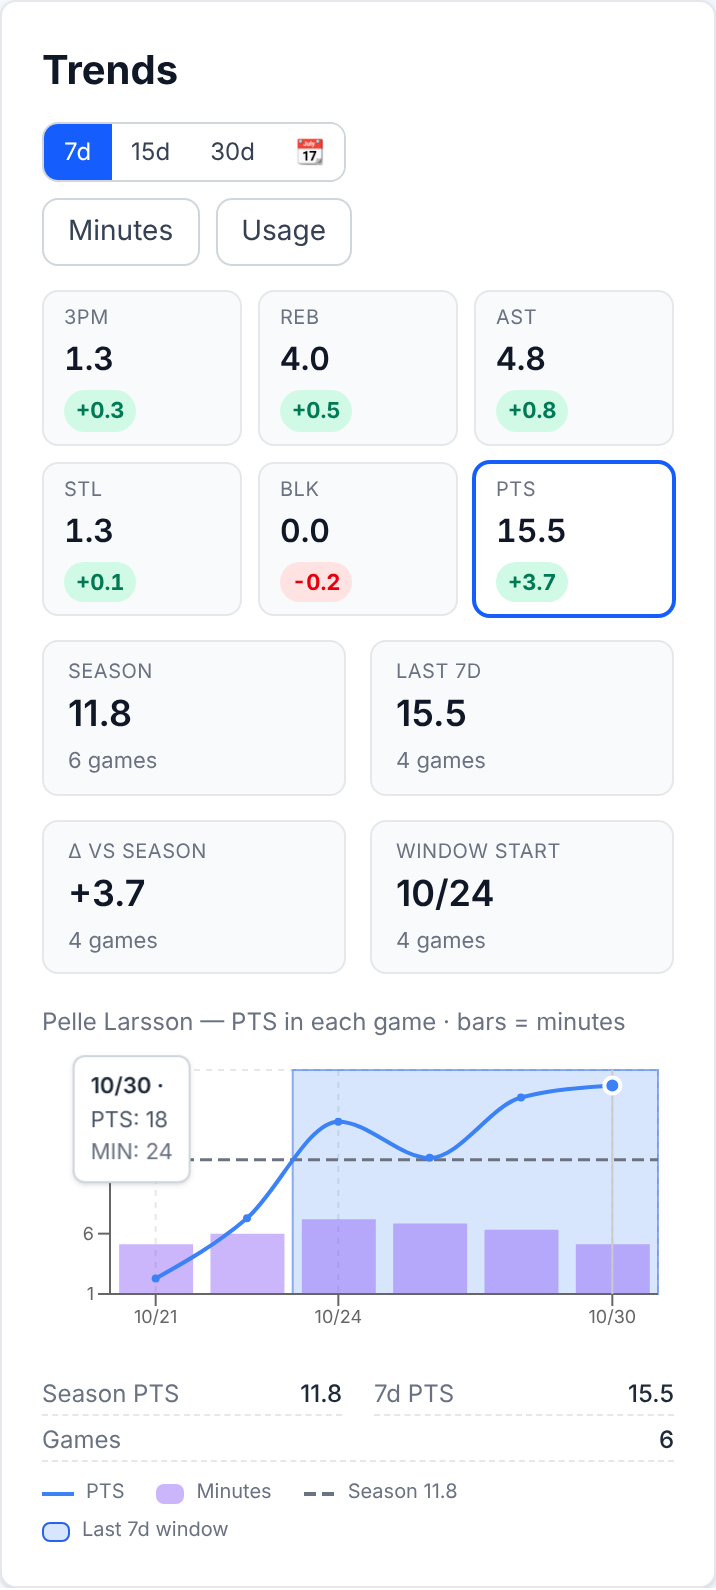
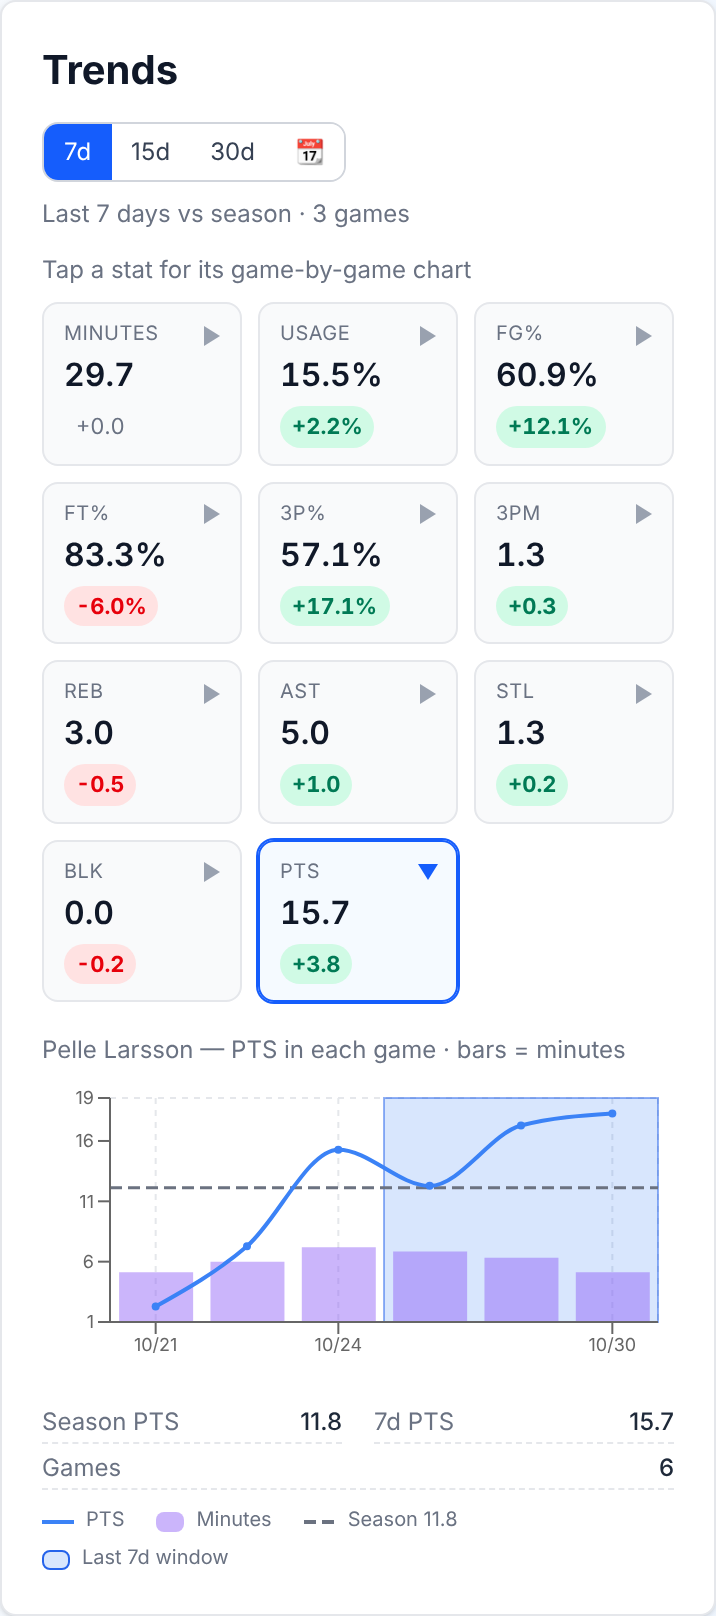
Player page Trends card: one grid of stats, click to open, click again to close
- Minutes, Usage, the shooting percentages and the league's counting
  categories are one grid of identical tiles, in the app's stat order.
  Each shows the last-N-days value and the change vs season (green up,
  red down, reversed for reverse-scored categories).
- Each tile carries the same caret the Trends tables use for expandable
  rows (right when closed, down when open) and a hover state; a line
  says "Click a stat for its game-by-game chart".
- Clicking the open tile again closes the chart. Minutes is open by
  default, as before.
- The Season / Last Nd / Δ / Window start tiles are gone: the grid tile
  and the chart's side panel already show those numbers. The window's
  game count (and "partial" when under 3) sits above the grid.
- Tests for the order, the toggle, and the colouring.

Claude-Session: https://claude.ai/code/session_0185q4ojHSGjPg8C66dpDwuL

diff --git a/frontend/src/components/PlayerTrendsCard.tsx b/frontend/src/components/PlayerTrendsCard.tsx
@@ -7,23 +7,14 @@ import { LOW_SAMPLE_GP } from '../utils/trendBaseline'
 import { toLocalIso, daysBetween, formatShort } from '../utils/dateRange'
 import { STAT_FIELDS, seasonAttempts, summarize, fmtValue, fmtDelta, type CardMode } from '../utils/playerTrendsSummary'
 import { countingCategoriesOf, isCountingCategory, isGoodChange } from '../utils/categoryTrends'
+import { orderCategories } from '../utils/statOrder'
 
 const DEFAULT_WINDOW_DAYS = 15
 const PRESET_WINDOWS = [7, 15, 30] as const
 const MIN_CUSTOM_WINDOW_DAYS = 5
 const MAX_CUSTOM_WINDOW_DAYS = 60
 
-const MODE_CHIPS: { key: CardMode; label: string }[] = [
-  { key: 'minutes', label: 'Minutes' },
-  { key: 'usage', label: 'Usage' },
-  { key: '3P%', label: '3P%' },
-  { key: 'FT%', label: 'FT%' },
-  { key: 'FG%', label: 'FG%' },
-]
-
-function shortDate(iso: string): string {
-  return iso.slice(5).replace('-', '/')
-}
+const MODE_LABEL: Partial<Record<CardMode, string>> = { minutes: 'Minutes', usage: 'Usage' }
 
 function addDaysIso(iso: string, days: number): string {
   const [y, m, d] = iso.split('-').map(Number)
@@ -34,35 +25,6 @@ function addDaysIso(iso: string, days: number): string {
 
 function subDaysIso(iso: string, days: number): string {
   return addDaysIso(iso, -days)
-}
-
-function Tile({ label, value, games, muted, badge }: {
-  label: string
-  value: string
-  games?: number
-  muted?: boolean
-  badge?: string
-}) {
-  return (
-    <div
-      className={`rounded-lg border border-gray-200 dark:border-gray-700 bg-gray-50 dark:bg-gray-800/50 px-3 py-2 min-w-0 ${
-        muted ? 'opacity-60' : ''
-      }`}
-    >
-      <div className="flex items-center gap-1.5">
-        <span className="text-[10px] uppercase tracking-wide text-gray-500 dark:text-gray-400">{label}</span>
-        {badge && (
-          <span className="text-[9px] font-semibold px-1.5 py-0.5 rounded bg-gray-200 dark:bg-gray-700 text-gray-500 dark:text-gray-400">
-            {badge}
-          </span>
-        )}
-      </div>
-      <div className="text-lg font-semibold text-gray-900 dark:text-gray-100 truncate">{value}</div>
-      {games !== undefined && (
-        <div className="text-[11px] text-gray-500 dark:text-gray-400">{games} {games === 1 ? 'game' : 'games'}</div>
-      )}
-    </div>
-  )
 }
 
 function Skeleton() {
@@ -90,7 +52,8 @@ interface Props {
 export default function PlayerTrendsCard({ playerId, categories, reverseCategories }: Props) {
   const countingCats = useMemo(() => countingCategoriesOf(categories), [categories])
   const reverse = useMemo(() => new Set(reverseCategories ?? []), [reverseCategories])
-  const [mode, setMode] = useState<CardMode>('minutes')
+  // which stat's chart is open; clicking the open one again closes it
+  const [mode, setMode] = useState<CardMode | null>('minutes')
   const [windowDays, setWindowDays] = useState(DEFAULT_WINDOW_DAYS)
   const [customStartIso, setCustomStartIso] = useState<string | null>(null)
   const [customOpen, setCustomOpen] = useState(false)
@@ -105,6 +68,13 @@ export default function PlayerTrendsCard({ playerId, categories, reverseCategori
     if (!log) return []
     return (Object.keys(STAT_FIELDS) as RegressionStat[]).filter((s) => seasonAttempts(log.games, s) > 0)
   }, [log])
+
+  // one grid, in the app's stat order: role first, then the league's
+  // percentages and counting categories as on every other table
+  const modes = useMemo<CardMode[]>(
+    () => ['minutes', 'usage', ...orderCategories<CardMode>([...availableShootingStats, ...countingCats])],
+    [availableShootingStats, countingCats],
+  )
 
   // anchor (latest game day) is invariant across windows, so any loaded
   // response - whichever window it was fetched for - can derive it
@@ -158,27 +128,17 @@ export default function PlayerTrendsCard({ playerId, categories, reverseCategori
         </div>
       )}
 
-      {!isLoading && !error && log && (
+      {!isLoading && !error && log && (() => {
+        const windowGames = log.games.filter((g) => g.game_date >= log.window_start).length
+        const partial = windowGames < LOW_SAMPLE_GP
+        return (
         <>
           <div className="flex flex-col sm:flex-row sm:items-center sm:justify-between gap-2 mb-3">
-            <div className="flex flex-wrap gap-2 order-2 sm:order-1">
-              {MODE_CHIPS.filter(
-                (c) => c.key === 'minutes' || c.key === 'usage' || availableShootingStats.includes(c.key as RegressionStat),
-              ).map((c) => (
-                <button
-                  key={c.key}
-                  type="button"
-                  onClick={() => setMode(c.key)}
-                  className={`px-3 py-1.5 text-sm rounded-lg border whitespace-nowrap transition-colors ${
-                    mode === c.key
-                      ? 'bg-blue-600 text-white border-blue-600'
-                      : 'bg-white dark:bg-gray-800 text-gray-700 dark:text-gray-200 border-gray-300 dark:border-gray-600 hover:bg-gray-50 dark:hover:bg-gray-700'
-                  }`}
-                >
-                  {c.label}
-                </button>
-              ))}
-            </div>
+            <p className="text-xs text-gray-500 dark:text-gray-400 order-2 sm:order-1">
+              Last {windowDays} days vs season · {windowGames} {windowGames === 1 ? 'game' : 'games'}
+              {partial && <span className="ml-1.5 text-[10px] font-semibold px-1.5 py-0.5 rounded bg-gray-100 dark:bg-gray-700 text-gray-500 dark:text-gray-400">partial</span>}
+              <span className="hidden sm:inline"> · Click a stat for its game-by-game chart</span>
+            </p>
 
             <div className="flex flex-wrap items-center gap-2 order-1 sm:order-2">
               <div className="flex rounded-lg border border-gray-300 dark:border-gray-600 overflow-hidden text-xs">
@@ -221,72 +181,67 @@ export default function PlayerTrendsCard({ playerId, categories, reverseCategori
             </div>
           )}
 
-          {countingCats.length > 0 && (
-            <div className="grid grid-cols-3 sm:grid-cols-6 gap-2 mb-3" role="group" aria-label="Categories">
-              {countingCats.map((cat) => {
-                const s = summarize(log, cat)
-                // every category shows its trend; only an exact zero stays grey
-                const moved = s.delta !== null && Math.abs(s.delta) >= 0.05
-                const deltaClass = !moved
-                  ? 'text-gray-500 dark:text-gray-400'
-                  : isGoodChange(s.delta as number, cat, reverse)
-                    ? 'bg-emerald-100 dark:bg-emerald-900/40 text-emerald-700 dark:text-emerald-400 font-bold'
-                    : 'bg-red-100 dark:bg-red-900/40 text-red-600 dark:text-red-400 font-bold'
-                return (
-                  <button
-                    key={cat}
-                    type="button"
-                    onClick={() => setMode(cat)}
-                    title={`${cat}: season ${fmtValue(s.seasonValue, cat)}, last ${windowDays}d ${fmtValue(s.windowValue, cat)} per game`}
-                    className={`text-left rounded-lg border px-2.5 py-1.5 transition-colors ${
-                      mode === cat
-                        ? 'border-blue-600 ring-1 ring-blue-600 bg-white dark:bg-gray-800'
-                        : 'border-gray-200 dark:border-gray-700 bg-gray-50 dark:bg-gray-800/50 hover:bg-gray-100 dark:hover:bg-gray-700'
-                    }`}
-                  >
-                    <span className="block text-[10px] uppercase tracking-wide text-gray-500 dark:text-gray-400">{cat}</span>
-                    <span className="block text-base font-semibold text-gray-900 dark:text-gray-100 tabular-nums">{fmtValue(s.windowValue, cat)}</span>
-                    <span className={`inline-block mt-0.5 rounded-full px-1.5 py-0.5 text-[11px] tabular-nums ${deltaClass}`}>
-                      {fmtDelta(s.delta, cat)}
-                    </span>
-                  </button>
-                )
-              })}
-            </div>
+          <p className="sm:hidden text-xs text-gray-500 dark:text-gray-400 mb-2">Tap a stat for its game-by-game chart</p>
+          <div className="grid grid-cols-3 sm:grid-cols-6 gap-2 mb-4">
+            {modes.map((key) => {
+              const s = summarize(log, key)
+              const open = mode === key
+              const moved = s.delta !== null && Math.abs(s.delta) >= 0.05
+              const good = s.delta !== null && (isCountingCategory(key) ? isGoodChange(s.delta, key, reverse) : s.delta >= 0)
+              const deltaClass = !moved
+                ? 'text-gray-500 dark:text-gray-400'
+                : good
+                  ? 'bg-emerald-100 dark:bg-emerald-900/40 text-emerald-700 dark:text-emerald-400 font-bold'
+                  : 'bg-red-100 dark:bg-red-900/40 text-red-600 dark:text-red-400 font-bold'
+              const label = MODE_LABEL[key] ?? key
+              return (
+                <button
+                  key={key}
+                  type="button"
+                  aria-expanded={open}
+                  onClick={() => setMode(open ? null : key)}
+                  title={`${label}: season ${fmtValue(s.seasonValue, key)}, last ${windowDays}d ${fmtValue(s.windowValue, key)}. ${open ? 'Click to close the chart' : 'Click for the game-by-game chart'}`}
+                  className={`group text-left rounded-lg border px-2.5 py-2 cursor-pointer transition-colors ${
+                    open
+                      ? 'border-blue-600 ring-1 ring-blue-600 bg-blue-50/60 dark:bg-blue-900/20'
+                      : 'border-gray-200 dark:border-gray-700 bg-gray-50 dark:bg-gray-800/50 hover:border-blue-400 hover:bg-white dark:hover:bg-gray-700'
+                  }`}
+                >
+                  <span className="flex items-center justify-between gap-1">
+                    <span className="text-[10px] uppercase tracking-wide text-gray-500 dark:text-gray-400">{label}</span>
+                    <svg
+                      viewBox="0 0 8 10"
+                      aria-hidden="true"
+                      className={`w-2 h-2.5 transition-transform ${open ? 'rotate-90 text-blue-600 dark:text-blue-400' : 'text-gray-400 dark:text-gray-500 group-hover:text-blue-500'}`}
+                    >
+                      <path d="M0 0 L8 5 L0 10 Z" fill="currentColor" />
+                    </svg>
+                  </span>
+                  <span className="block text-base font-semibold text-gray-900 dark:text-gray-100 tabular-nums">{fmtValue(s.windowValue, key)}</span>
+                  <span className={`inline-block mt-0.5 rounded-full px-1.5 py-0.5 text-[11px] tabular-nums ${deltaClass}`}>
+                    {fmtDelta(s.delta, key)}
+                  </span>
+                </button>
+              )
+            })}
+          </div>
+
+          {mode && (
+            <TrendGameLogChart
+              playerId={playerId}
+              playerName={log.player_name}
+              mode={mode === 'minutes' || mode === 'usage' ? mode : isCountingCategory(mode) ? 'category' : 'shooting'}
+              regressionMode="form"
+              windowDays={windowDays}
+              baselineSeasons={0}
+              stat={mode === 'minutes' || mode === 'usage' || isCountingCategory(mode) ? undefined : mode}
+              qualifiedStats={availableShootingStats}
+              category={isCountingCategory(mode) ? (mode as CountingCategory) : undefined}
+            />
           )}
-
-          {(() => {
-            const summary = summarize(log, mode)
-            const partial = summary.windowGames < LOW_SAMPLE_GP
-            return (
-              <div className="grid grid-cols-2 sm:grid-cols-4 gap-3 mb-4">
-                <Tile label="Season" value={fmtValue(summary.seasonValue, mode)} games={summary.seasonGames} />
-                <Tile label={`Last ${windowDays}d`} value={fmtValue(summary.windowValue, mode)} games={summary.windowGames} />
-                <Tile
-                  label="Δ vs season"
-                  value={fmtDelta(summary.delta, mode)}
-                  games={summary.windowGames}
-                  muted={partial}
-                  badge={partial ? 'partial' : undefined}
-                />
-                <Tile label="Window start" value={shortDate(summary.windowStart)} games={summary.windowGames} />
-              </div>
-            )
-          })()}
-
-          <TrendGameLogChart
-            playerId={playerId}
-            playerName={log.player_name}
-            mode={mode === 'minutes' || mode === 'usage' ? mode : isCountingCategory(mode) ? 'category' : 'shooting'}
-            regressionMode="form"
-            windowDays={windowDays}
-            baselineSeasons={0}
-            stat={mode === 'minutes' || mode === 'usage' || isCountingCategory(mode) ? undefined : mode}
-            qualifiedStats={availableShootingStats}
-            category={isCountingCategory(mode) ? (mode as CountingCategory) : undefined}
-          />
         </>
-      )}
+        )
+      })()}
     </div>
   )
 }

diff --git a/frontend/src/components/__tests__/PlayerTrendsCard.test.tsx b/frontend/src/components/__tests__/PlayerTrendsCard.test.tsx
@@ -1,0 +1,70 @@
+import { render, screen } from '@testing-library/react'
+import userEvent from '@testing-library/user-event'
+import { describe, expect, it, vi } from 'vitest'
+import type { GameLogEntry, GameLogResponse } from '../../types/api'
+import PlayerTrendsCard from '../PlayerTrendsCard'
+
+function game(date: string, over: Partial<GameLogEntry> = {}): GameLogEntry {
+  return {
+    game_date: date, matchup: 'MIA vs. BOS', min: 30, usg: 20,
+    fgm: 5, fga: 10, ftm: 2, fta: 2, fg3m: 1, fg3a: 3,
+    pts: 13, reb: 4, ast: 3, stl: 1, blk: 0, tov: 2, ...over,
+  }
+}
+
+const LOG: GameLogResponse = {
+  player_id: 1, player_name: 'Test Player', season: '2026-27', window_days: 7, window_start: '2026-10-25',
+  season_gp: 4, season_mpg: 30, season_usg: 20,
+  season_pct: { '3P%': 33.3, 'FT%': 100, 'FG%': 50 }, baseline_pct: {}, league_pct: {}, league_usg: null,
+  baseline_seasons: 0,
+  games: [
+    game('2026-10-21', { pts: 10, blk: 1 }),
+    game('2026-10-23', { pts: 10, blk: 1 }),
+    game('2026-10-27', { pts: 20, blk: 0 }),
+    game('2026-10-29', { pts: 20, blk: 0 }),
+  ],
+}
+
+vi.mock('../../store/api/fantasyApi', () => ({
+  useGetTrendGameLogQuery: () => ({ data: LOG, error: undefined, isLoading: false, refetch: vi.fn() }),
+}))
+// the chart has its own data fetching; here we only care which stat it is asked to draw
+vi.mock('../TrendGameLogChart', () => ({
+  default: (p: { mode: string; category?: string; stat?: string }) => (
+    <div data-testid="chart">{p.mode === 'category' ? p.category : p.mode === 'shooting' ? p.stat : p.mode}</div>
+  ),
+}))
+
+const LEAGUE = ['PTS', 'BLK', 'STL', 'AST', 'REB', '3PM', 'FG%', 'FT%']
+
+describe('PlayerTrendsCard', () => {
+  it('shows every stat in one grid, in the app order, without TO when the league has none', () => {
+    render(<PlayerTrendsCard playerId={1} categories={LEAGUE} />)
+    const labels = screen.getAllByRole('button', { expanded: false }).map(b => b.querySelector('span > span')?.textContent)
+    expect(labels).toEqual(['Usage', 'FG%', 'FT%', '3P%', '3PM', 'REB', 'AST', 'STL', 'BLK', 'PTS'])
+    expect(screen.getByRole('button', { expanded: true })).toHaveTextContent('Minutes')
+    expect(screen.queryByText('TO')).not.toBeInTheDocument()
+  })
+
+  it('opens a stat on click and closes it on a second click', async () => {
+    const user = userEvent.setup()
+    render(<PlayerTrendsCard playerId={1} categories={LEAGUE} />)
+    expect(screen.getByTestId('chart')).toHaveTextContent('minutes')
+
+    const pts = screen.getByRole('button', { name: /^PTS/ })
+    await user.click(pts)
+    expect(pts).toHaveAttribute('aria-expanded', 'true')
+    expect(screen.getByTestId('chart')).toHaveTextContent('PTS')
+
+    await user.click(pts)
+    expect(pts).toHaveAttribute('aria-expanded', 'false')
+    expect(screen.queryByTestId('chart')).not.toBeInTheDocument()
+  })
+
+  it('colours every change by direction, with no minimum', () => {
+    render(<PlayerTrendsCard playerId={1} categories={LEAGUE} />)
+    // PTS 15.0 season -> 20.0 window: up; BLK 0.5 -> 0.0: down
+    expect(screen.getByText('+5.0')).toHaveClass('text-emerald-700')
+    expect(screen.getByText('-0.5')).toHaveClass('text-red-600')
+  })
+})
